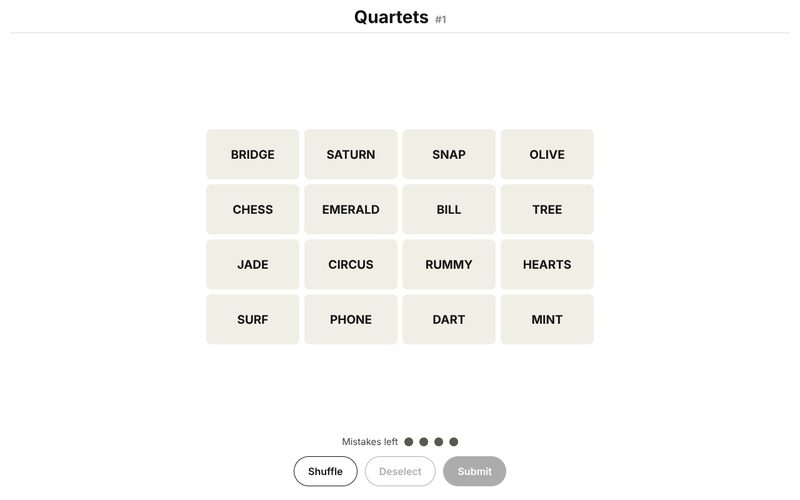
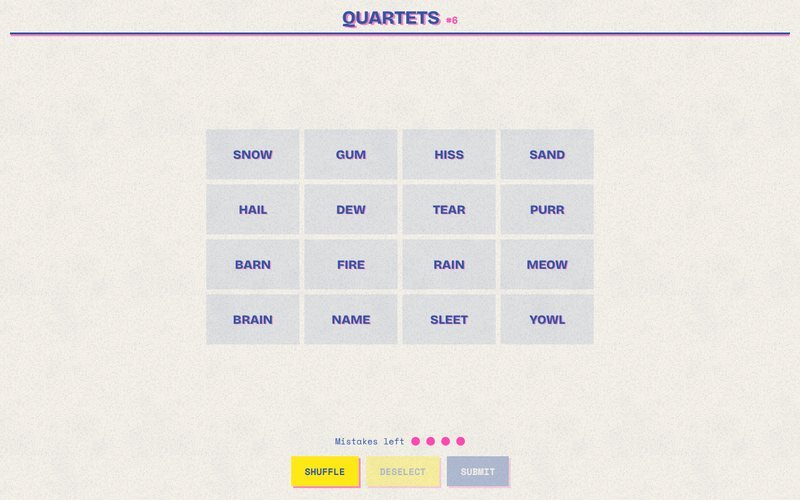
Ship Quartets (quartets) from claude-games 4314df8

diff --git a/public/proto/quartets.html b/public/proto/quartets.html
@@ -4818,7 +4818,7 @@ ${$(`flat`,`.cg-gs-btn:hover, .cg-gs-btn.focus`)} { background: var(--look-playe
 .cg-look-vector .cg-gs-panel, .cg-look-vector .cg-cc-card, .cg-look-vector .cg-hg-sheet { text-shadow: 0 0 6px currentColor; }
 .cg-look-block .cg-gs-panel, .cg-look-block .cg-cc-card, .cg-look-block .cg-hg-sheet { border-width: 4px !important; }
 .cg-look input { border-radius: 0; border: 2px solid var(--look-ink); background: var(--look-paper); color: var(--look-ink); font: inherit; }
-`;function Yf(e,t){let n=parseInt(e.slice(1),16);return`rgba(${n>>16&255}, ${n>>8&255}, ${n&255}, ${t})`}var Xf=class{sounds;volume=.7;muted=!1;ctx=null;master=null;noise=null;last=new Map;samples=new Map;requested=new Set;removers=[];constructor(e){if(this.sounds=e,typeof window<`u`){let e=()=>this.unlock();window.addEventListener(`keydown`,e),window.addEventListener(`pointerdown`,e),this.removers.push(()=>{window.removeEventListener(`keydown`,e),window.removeEventListener(`pointerdown`,e)})}}get ready(){return this.ctx!==null&&this.ctx.state===`running`}unlock(){try{if(!this.ctx){let e=window.AudioContext??window.webkitAudioContext;if(!e)return;this.ctx=new e,this.master=this.ctx.createGain(),this.master.connect(this.ctx.destination);let t=this.ctx.sampleRate;this.noise=this.ctx.createBuffer(1,t,this.ctx.sampleRate);let n=this.noise.getChannelData(0);for(let e=0;e<t;e++)n[e]=Math.random()*2-1}this.ctx.state===`suspended`&&this.ctx.resume(),this.loadSamples()}catch{this.ctx=null}}play(e,t={}){let n=this.sounds[e],r=this.ctx;if(!n||!r||!this.master||this.muted||r.state!==`running`)return;let i=r.currentTime,a=t.minGap??.03;if(i-(this.last.get(e)??-1)<a)return;this.last.set(e,i),this.master.gain.value=this.volume;let o=n.jitter?1+(Math.random()*2-1)*n.jitter:1,s=(t.pitch??1)*o,c=(n.volume??.3)*(t.volume??1);if(`file`in n){let e=Array.isArray(n.file)?n.file:[n.file],t=this.samples.get(e[Math.floor(Math.random()*e.length)]);if(!t)return;let a=r.createBufferSource(),o=r.createGain();a.buffer=t,a.playbackRate.value=s,o.gain.value=c,a.connect(o).connect(this.master),a.start(i);return}let l=n.notes??[0],u=n.step??n.duration;l.forEach((e,t)=>this.voice(n,i+t*u,s*2**(e/12),c))}destroy(){this.removers.forEach(e=>e()),this.ctx?.close()}async loadSamples(){let e=this.ctx;if(!e)return;let t=new Set;for(let e of Object.values(this.sounds))if(`file`in e)for(let n of Array.isArray(e.file)?e.file:[e.file])t.add(n);await Promise.all([...t].filter(e=>!this.requested.has(e)).map(async t=>{this.requested.add(t);try{let n=await(await fetch(t)).arrayBuffer();this.samples.set(t,await e.decodeAudioData(n))}catch(e){console.warn(`[Sfx] could not load`,t.slice(0,80),e)}}))}voice(e,t,n,r){let i=this.ctx,a=t+e.duration,o=i.createGain();o.gain.setValueAtTime(1e-4,t),o.gain.exponentialRampToValueAtTime(Math.max(2e-4,r),t+(e.attack??.005)),o.gain.exponentialRampToValueAtTime(1e-4,a);let s=o;if(e.filter){let t=i.createBiquadFilter();t.type=`lowpass`,t.frequency.value=e.filter*n,t.connect(o),s=t}if(o.connect(this.master),e.wave===`noise`){let e=i.createBufferSource();e.buffer=this.noise,e.playbackRate.value=n,e.connect(s),e.start(t,Math.random()*.5),e.stop(a+.02);return}let c=i.createOscillator();c.type=e.wave;let l=(e.freq??440)*n;if(c.frequency.setValueAtTime(l,t),e.freqEnd&&c.frequency.exponentialRampToValueAtTime(Math.max(20,e.freqEnd*n),a),e.vibrato){let n=i.createOscillator(),r=i.createGain();n.frequency.value=e.vibrato.rate,r.gain.value=e.vibrato.depth*l,n.connect(r).connect(c.frequency),n.start(t),n.stop(a+.02)}c.connect(s),c.start(t),c.stop(a+.02)}},Zf={achievement:{wave:`sine`,freq:784,notes:[0,7,12],step:.09,duration:.18,volume:.28},click:{wave:`triangle`,freq:660,freqEnd:760,duration:.05,volume:.18},focus:{wave:`triangle`,freq:520,duration:.03,volume:.1},error:{wave:`sine`,freq:220,freqEnd:180,duration:.1,volume:.15},win:{wave:`square`,freq:523,notes:[0,4,7,12,16,19,24],step:.075,duration:.16,volume:.2},lose:{wave:`triangle`,freq:392,notes:[0,-3,-7,-12],step:.14,duration:.2,volume:.22},reveal:{wave:`triangle`,freq:523,notes:[0,4,7,12],step:.07,duration:.14,volume:.22}};[0,8,2,10,12,4,14,6,3,11,1,9,15,7,13,5].map(e=>(e+.5)/16-.5);async function Qf(e,t,n=`400`){let r=new FontFace(e,`url(${t})`,{weight:n});return await r.load(),document.fonts.add(r),r}async function $f(e){await Promise.all(e.map(([e,t,n])=>Qf(e,t,n).catch(()=>null)))}var ep={glow:0,pixel:0,palette:null,bloom:0},tp={...ep,id:`sketchbook`,name:`Sketchbook`,render:`print`,paper:`#fbf8f1`,grid:`rgba(70, 120, 200, 0.16)`,gridSize:16,ink:{line:`#2b2b2b`,player:`#2457c5`,enemy:`#d23b2e`,hazard:`#f2c84b`,accent:`#e8639a`,muted:`#9a968c`,solid:`#3a3a3a`,panel:`#f3eee2`,soft:`#5b574f`,field:`rgba(255, 255, 255, 0.4)`,cloud:`rgba(43, 43, 43, 0.25)`},stroke:1.6,shadow:{x:0,y:0,color:`transparent`},font:{title:`'Caveat Brush', 'Comic Sans MS', cursive`,body:`'Patrick Hand', 'Comic Sans MS', cursive`},texture:`paper`,frame:`sketch`,rough:1.6},np={...ep,id:`letterpress`,name:`Letterpress`,render:`print`,paper:`#f2e8d5`,grid:``,gridSize:20,ink:{line:`#1d1d1b`,player:`#c8322b`,enemy:`#1f4e79`,hazard:`#d9a21b`,accent:`#c8322b`,muted:`#a39a86`,solid:`#3b3a36`,panel:`#e8dcc3`,soft:`#5a5243`,field:`rgba(255, 255, 255, 0.3)`,cloud:`rgba(29, 29, 27, 0.3)`},stroke:2,shadow:{x:1,y:1,color:`rgba(29, 29, 27, 0.25)`},font:{title:`'Alfa Slab One', Rockwell, serif`,body:`'Bitter', Georgia, serif`},texture:`paper`,frame:`deboss`},rp={...ep,id:`field-guide`,name:`Field Guide`,render:`print`,paper:`#efe6cf`,grid:``,gridSize:20,ink:{line:`#3a2a1a`,player:`#8a5a1c`,enemy:`#7a2e1c`,hazard:`#d8a634`,accent:`#4d6b3a`,muted:`#a8977a`,solid:`#3a2a1a`,panel:`#e6dabd`,soft:`#5e4a33`,field:`rgba(255, 250, 235, 0.35)`,cloud:`rgba(58, 42, 26, 0.25)`},stroke:1.2,shadow:{x:0,y:0,color:`transparent`},font:{title:`'IM Fell English SC', Georgia, serif`,body:`'IM Fell English', Georgia, serif`},texture:`engrave`,vignette:.18,frame:`plate`},ip={...ep,id:`risograph`,name:`Risograph`,render:`print`,paper:`#f5f1e8`,grid:``,gridSize:20,ink:{line:`#3255a4`,player:`#ff48b0`,enemy:`#00a95c`,hazard:`#ffe800`,accent:`#ff6c2f`,muted:`#b9b3a8`,solid:`#3255a4`,panel:`#ece6d8`,soft:`#4a4a5a`,field:`rgba(255, 255, 255, 0.3)`,cloud:`rgba(50, 85, 164, 0.3)`},stroke:0,shadow:{x:3,y:2,color:`rgba(255, 72, 176, 0.75)`},font:{title:`'Bricolage Grotesque', 'Arial Black', sans-serif`,body:`'Space Mono', ui-monospace, monospace`},texture:`riso`,frame:`riso`},ap=[tp,np,rp,ip,{...ep,id:`parlour`,name:`Parlour`,render:`print`,paper:`#1f4d36`,grid:``,gridSize:20,ink:{line:`#f3e9d2`,player:`#c9a14a`,enemy:`#b3283c`,hazard:`#c9a14a`,accent:`#c9a14a`,muted:`#7f9c88`,solid:`#0f2a1d`,panel:`#183f2c`,soft:`#cfc3a6`,field:`rgba(0, 0, 0, 0.12)`,cloud:`rgba(243, 233, 210, 0.2)`},stroke:1.5,shadow:{x:0,y:3,color:`rgba(0, 0, 0, 0.35)`},font:{title:`'Playfair Display SC', Georgia, serif`,body:`'Libre Caslon Text', Georgia, serif`},texture:`felt`,vignette:.45,frame:`gilt`},{...ep,id:`country-club`,name:`Country Club`,render:`print`,paper:`#f4efe3`,grid:``,gridSize:20,ink:{line:`#173b2c`,player:`#1d3557`,enemy:`#b5352f`,hazard:`#e0b84f`,accent:`#3d7a4f`,muted:`#a7a08f`,solid:`#173b2c`,panel:`#e9e1cf`,soft:`#4a5a4f`,field:`rgba(61, 122, 79, 0.12)`,cloud:`rgba(23, 59, 44, 0.2)`},stroke:1.5,shadow:{x:0,y:2,color:`rgba(23, 59, 44, 0.18)`},font:{title:`'DM Serif Display', Georgia, serif`,body:`'DM Sans', 'Helvetica Neue', sans-serif`},texture:`paper`,frame:`ticket`},{...ep,id:`pocket-lcd`,name:`Pocket LCD`,render:`block`,paper:`#b7c49a`,grid:``,gridSize:8,ink:{line:`#2a3320`,player:`#2a3320`,enemy:`#2a3320`,hazard:`#4b5a3a`,accent:`#2a3320`,muted:`#8c9a72`,solid:`#2a3320`,panel:`#a9b78c`,soft:`#3e4a30`,field:`rgba(42, 51, 32, 0.06)`,cloud:`rgba(42, 51, 32, 0.25)`},stroke:0,shadow:{x:1,y:1,color:`rgba(42, 51, 32, 0.18)`},pixel:3,palette:[`#b7c49a`,`#8c9a72`,`#4b5a3a`,`#2a3320`],font:{title:`'Micro 5', 'VT323', monospace`,body:`'VT323', ui-monospace, monospace`},texture:`lcd`,frame:`bevel`},{...ep,id:`paper-cutout`,name:`Paper Cutout`,render:`print`,paper:`#ffe9d6`,grid:``,gridSize:20,ink:{line:`#3d2c4e`,player:`#ff7a59`,enemy:`#4ab3a8`,hazard:`#ffc145`,accent:`#7b5ea7`,muted:`#d8b9a0`,solid:`#3d2c4e`,panel:`#fff6ec`,soft:`#6b5876`,field:`rgba(255, 255, 255, 0.35)`,cloud:`rgba(61, 44, 78, 0.18)`},stroke:0,shadow:{x:0,y:4,color:`rgba(61, 44, 78, 0.2)`},font:{title:`'Lilita One', 'Arial Rounded MT Bold', sans-serif`,body:`'Nunito', 'Helvetica Neue', sans-serif`},texture:`paper`,frame:`cutout`},{...ep,id:`topo-survey`,name:`Topo Survey`,render:`print`,paper:`#e9e4d0`,grid:``,gridSize:40,ink:{line:`#3b4a3f`,player:`#e86a1f`,enemy:`#b8322a`,hazard:`#f2b632`,accent:`#2f6f8f`,muted:`#a8a48c`,solid:`#4f5b45`,panel:`#dfd8bd`,soft:`#55604e`,field:`rgba(255, 255, 255, 0.3)`,cloud:`rgba(59, 74, 63, 0.25)`},stroke:1.5,shadow:{x:1,y:1,color:`rgba(59, 74, 63, 0.35)`},font:{title:`'Saira Stencil One', Impact, sans-serif`,body:`'Barlow Condensed', 'Arial Narrow', sans-serif`},texture:`topo`,frame:`stamp`},{...ep,id:`tarot`,name:`Tarot`,render:`print`,paper:`#191630`,grid:``,gridSize:20,ink:{line:`#e9d8a6`,player:`#e9d8a6`,enemy:`#c2456b`,hazard:`#f0c05a`,accent:`#e9d8a6`,muted:`#6b6390`,solid:`#0e0c1f`,panel:`#221e3f`,soft:`#b8acd6`,field:`rgba(233, 216, 166, 0.05)`,cloud:`rgba(184, 172, 214, 0.2)`},stroke:1.2,shadow:{x:0,y:0,color:`transparent`},font:{title:`'Cinzel Decorative', Georgia, serif`,body:`'Cormorant Garamond', Georgia, serif`},texture:`stars`,vignette:.35,frame:`gilt`},{...ep,id:`wanted-poster`,name:`Wanted Poster`,render:`print`,paper:`#e8d3a8`,grid:``,gridSize:20,ink:{line:`#3b2414`,player:`#2f4f6f`,enemy:`#9c2b1b`,hazard:`#c98a2b`,accent:`#9c2b1b`,muted:`#b39b72`,solid:`#3b2414`,panel:`#dcc292`,soft:`#5e4126`,field:`rgba(255, 245, 220, 0.25)`,cloud:`rgba(59, 36, 20, 0.25)`},stroke:2,shadow:{x:0,y:0,color:`transparent`},font:{title:`'Rye', Georgia, serif`,body:`'Old Standard TT', Georgia, serif`},texture:`aged`,vignette:.4,frame:`poster`},{...ep,id:`noir`,name:`Noir`,render:`print`,paper:`#141414`,grid:``,gridSize:20,ink:{line:`#ecebe6`,player:`#ecebe6`,enemy:`#c8102e`,hazard:`#d4d0c8`,accent:`#c8102e`,muted:`#6e6e6e`,solid:`#000000`,panel:`#1e1e1e`,soft:`#b5b3ad`,field:`rgba(255, 255, 255, 0.03)`,cloud:`rgba(236, 235, 230, 0.15)`},stroke:1,shadow:{x:0,y:6,color:`rgba(0, 0, 0, 0.6)`},font:{title:`'Bodoni Moda', Didot, serif`,body:`'Barlow Condensed', 'Arial Narrow', sans-serif`},texture:`film`,vignette:.6,frame:`slit`},{...ep,id:`comic-page`,name:`Comic Page`,render:`print`,paper:`#fff7e0`,grid:``,gridSize:20,ink:{line:`#111111`,player:`#1f5fd6`,enemy:`#e5322d`,hazard:`#ffd400`,accent:`#e5322d`,muted:`#9a917a`,solid:`#111111`,panel:`#fffdf4`,soft:`#333333`,field:`rgba(255, 255, 255, 0.3)`,cloud:`rgba(17, 17, 17, 0.25)`},stroke:3,shadow:{x:3,y:3,color:`#111111`},font:{title:`'Bangers', Impact, sans-serif`,body:`'Comic Neue', 'Comic Sans MS', sans-serif`},texture:`halftone`,frame:`comic`},{...ep,id:`travel-poster`,name:`Travel Poster`,render:`print`,paper:`#f3e2c3`,grid:``,gridSize:20,ink:{line:`#22313f`,player:`#e4572e`,enemy:`#17a398`,hazard:`#f6ae2d`,accent:`#33658a`,muted:`#c6b08c`,solid:`#22313f`,panel:`#ead5b0`,soft:`#4b5b68`,field:`rgba(255, 255, 255, 0.2)`,cloud:`rgba(34, 49, 63, 0.2)`},stroke:0,shadow:{x:0,y:0,color:`transparent`},font:{title:`'Abril Fatface', Didot, serif`,body:`'Josefin Sans', 'Helvetica Neue', sans-serif`},texture:`grain`,frame:`flat`}];[...Wf,...ap];var op=e=>e.toLowerCase().replace(/[^a-z0-9]+/g,`-`).replace(/^-|-$/g,``),sp=e=>e.split(`,`)[0].trim().replace(/^['"]|['"]$/g,``);async function cp(e,t){let n=Array.isArray(e)?e:[e],r=new Map;for(let e of n)for(let t of[e.font.title,e.font.body])r.set(op(sp(t)),sp(t));let i=[];for(let[e,n]of Object.entries(t)){let t=e.split(`/`).pop()??``,a=/^(.*)-latin-(\d+)-normal\.woff2$/.exec(t);if(!a)continue;let o=r.get(a[1]);o&&i.push([o,n,a[2]])}await $f(i)}async function lp(e,t,n,r={}){await cp(t,n),Gf(e,t,{surface:r.surface??!0}),document.documentElement.style.background=t.paper,document.body.style.background=t.paper}var up={id:`quartets`,title:`Quartets`,blurb:`Sixteen words, four hidden groups. Find them before four mistakes. A new board every day, every past one in the archive.`,tag:`Daily Word`,minutes:[2,4],accent:`#ba81c5`,icon:`🟪`,score:{label:`day streak`,max:1e5},achievements:[{id:`solve`,name:`Sorted`,description:`Solve a puzzle`},{id:`perfect`,name:`Flawless`,description:`Solve a puzzle with no mistakes`},{id:`week`,name:`Full Week`,description:`Reach a 7-day streak`},{id:`regular`,name:`Regular`,description:`Solve 30 puzzles`,goal:30},{id:`close`,name:`Close Call`,description:`Solve with one mistake to spare`},{id:`purple`,name:`Purple First`,description:`Find the hardest group first`,secret:!0}]},dp=class{groups;o;items;solved=[];mistakes=0;history=[];tried=new Set;constructor(e,t={mistakes:4}){this.groups=e,this.o=t,this.items=e.flatMap(e=>e.items)}get size(){return this.groups[0]?.items.length??4}get won(){return this.solved.length===this.groups.length}get lost(){return this.mistakes>=this.o.mistakes}get over(){return this.won||this.lost}groupOf(e){return this.groups.find(t=>t.items.includes(e))}shuffle(e){for(let t=this.items.length-1;t>0;t--){let n=Math.floor(e.next()*(t+1));[this.items[t],this.items[n]]=[this.items[n],this.items[t]]}}guess(e){if(this.over||e.length!==this.size||new Set(e).size!==e.length||!e.every(e=>this.items.includes(e)))return{result:`invalid`};let t=[...e].sort().join(`|`);if(this.tried.has(t))return{result:`repeat`};this.tried.add(t),this.history.push([...e]);let n=this.groupOf(e[0]);if(e.every(e=>n.items.includes(e)))return this.solved.push(n),this.items=this.items.filter(e=>!n.items.includes(e)),{result:`correct`,group:n};this.mistakes++;let r=new Map;for(let t of e)r.set(this.groupOf(t),(r.get(this.groupOf(t))??0)+1);return Math.max(...r.values())===this.size-1?{result:`oneAway`}:{result:`wrong`}}reveal(){let e=this.groups.filter(e=>!this.solved.includes(e)).sort((e,t)=>e.level-t.level);return this.solved.push(...e),this.items=[],e}},fp=`2026-10-23`,pp={mistakes:4},mp=[{color:`#ffe800`,ink:`#3255a4`,square:`🟨`},{color:`#00a95c`,ink:`#f5f1e8`,square:`🟩`},{color:`#0078bf`,ink:`#f5f1e8`,square:`🟦`},{color:`#765ba7`,ink:`#f5f1e8`,square:`🟪`}],hp=class e extends dp{static groups(e){return e.map((e,t)=>{let n=e.lastIndexOf(`:`);return{name:e.slice(0,n).trim(),items:e.slice(n+1).split(`,`).map(e=>e.trim()),level:t}})}static parse(t){return new e(e.groups(t),{mistakes:pp.mistakes})}share(e){return`Quartets #${e}\n${this.history.map(e=>e.map(e=>mp[this.groupOf(e).level].square).join(``)).join(`
+`;function Yf(e,t){let n=parseInt(e.slice(1),16);return`rgba(${n>>16&255}, ${n>>8&255}, ${n&255}, ${t})`}var Xf=class{sounds;volume=.7;muted=!1;ctx=null;master=null;noise=null;last=new Map;samples=new Map;requested=new Set;removers=[];constructor(e){if(this.sounds=e,typeof window<`u`){let e=()=>this.unlock();window.addEventListener(`keydown`,e),window.addEventListener(`pointerdown`,e),this.removers.push(()=>{window.removeEventListener(`keydown`,e),window.removeEventListener(`pointerdown`,e)})}}get ready(){return this.ctx!==null&&this.ctx.state===`running`}unlock(){try{if(!this.ctx){let e=window.AudioContext??window.webkitAudioContext;if(!e)return;this.ctx=new e,this.master=this.ctx.createGain(),this.master.connect(this.ctx.destination);let t=this.ctx.sampleRate;this.noise=this.ctx.createBuffer(1,t,this.ctx.sampleRate);let n=this.noise.getChannelData(0);for(let e=0;e<t;e++)n[e]=Math.random()*2-1}this.ctx.state===`suspended`&&this.ctx.resume(),this.loadSamples()}catch{this.ctx=null}}play(e,t={}){let n=this.sounds[e],r=this.ctx;if(!n||!r||!this.master||this.muted||r.state!==`running`)return;let i=r.currentTime,a=t.minGap??.03;if(i-(this.last.get(e)??-1)<a)return;this.last.set(e,i),this.master.gain.value=this.volume;let o=n.jitter?1+(Math.random()*2-1)*n.jitter:1,s=(t.pitch??1)*o,c=(n.volume??.3)*(t.volume??1);if(`file`in n){let e=Array.isArray(n.file)?n.file:[n.file],t=this.samples.get(e[Math.floor(Math.random()*e.length)]);if(!t)return;let a=r.createBufferSource(),o=r.createGain();a.buffer=t,a.playbackRate.value=s,o.gain.value=c,a.connect(o).connect(this.master),a.start(i);return}let l=n.notes??[0],u=n.step??n.duration;l.forEach((e,t)=>this.voice(n,i+t*u,s*2**(e/12),c))}destroy(){this.removers.forEach(e=>e()),this.ctx?.close()}async loadSamples(){let e=this.ctx;if(!e)return;let t=new Set;for(let e of Object.values(this.sounds))if(`file`in e)for(let n of Array.isArray(e.file)?e.file:[e.file])t.add(n);await Promise.all([...t].filter(e=>!this.requested.has(e)).map(async t=>{this.requested.add(t);try{let n=await(await fetch(t)).arrayBuffer();this.samples.set(t,await e.decodeAudioData(n))}catch(e){console.warn(`[Sfx] could not load`,t.slice(0,80),e)}}))}voice(e,t,n,r){let i=this.ctx,a=t+e.duration,o=i.createGain();o.gain.setValueAtTime(1e-4,t),o.gain.exponentialRampToValueAtTime(Math.max(2e-4,r),t+(e.attack??.005)),o.gain.exponentialRampToValueAtTime(1e-4,a);let s=o;if(e.filter){let t=i.createBiquadFilter();t.type=`lowpass`,t.frequency.value=e.filter*n,t.connect(o),s=t}if(o.connect(this.master),e.wave===`noise`){let e=i.createBufferSource();e.buffer=this.noise,e.playbackRate.value=n,e.connect(s),e.start(t,Math.random()*.5),e.stop(a+.02);return}let c=i.createOscillator();c.type=e.wave;let l=(e.freq??440)*n;if(c.frequency.setValueAtTime(l,t),e.freqEnd&&c.frequency.exponentialRampToValueAtTime(Math.max(20,e.freqEnd*n),a),e.vibrato){let n=i.createOscillator(),r=i.createGain();n.frequency.value=e.vibrato.rate,r.gain.value=e.vibrato.depth*l,n.connect(r).connect(c.frequency),n.start(t),n.stop(a+.02)}c.connect(s),c.start(t),c.stop(a+.02)}},Zf={achievement:{wave:`sine`,freq:784,notes:[0,7,12],step:.09,duration:.18,volume:.28},click:{wave:`triangle`,freq:660,freqEnd:760,duration:.05,volume:.18},focus:{wave:`triangle`,freq:520,duration:.03,volume:.1},error:{wave:`sine`,freq:220,freqEnd:180,duration:.1,volume:.15},win:{wave:`square`,freq:523,notes:[0,4,7,12,16,19,24],step:.075,duration:.16,volume:.2},lose:{wave:`triangle`,freq:392,notes:[0,-3,-7,-12],step:.14,duration:.2,volume:.22},reveal:{wave:`triangle`,freq:523,notes:[0,4,7,12],step:.07,duration:.14,volume:.22}};[0,8,2,10,12,4,14,6,3,11,1,9,15,7,13,5].map(e=>(e+.5)/16-.5);async function Qf(e,t,n=`400`){let r=new FontFace(e,`url(${t})`,{weight:n});return await r.load(),document.fonts.add(r),r}async function $f(e){await Promise.all(e.map(([e,t,n])=>Qf(e,t,n).catch(()=>null)))}var ep={glow:0,pixel:0,palette:null,bloom:0},tp={...ep,id:`sketchbook`,name:`Sketchbook`,render:`print`,paper:`#fbf8f1`,grid:`rgba(70, 120, 200, 0.16)`,gridSize:16,ink:{line:`#2b2b2b`,player:`#2457c5`,enemy:`#d23b2e`,hazard:`#f2c84b`,accent:`#e8639a`,muted:`#9a968c`,solid:`#3a3a3a`,panel:`#f3eee2`,soft:`#5b574f`,field:`rgba(255, 255, 255, 0.4)`,cloud:`rgba(43, 43, 43, 0.25)`},stroke:1.6,shadow:{x:0,y:0,color:`transparent`},font:{title:`'Caveat Brush', 'Comic Sans MS', cursive`,body:`'Patrick Hand', 'Comic Sans MS', cursive`},texture:`paper`,frame:`sketch`,rough:1.6},np={...ep,id:`letterpress`,name:`Letterpress`,render:`print`,paper:`#f2e8d5`,grid:``,gridSize:20,ink:{line:`#1d1d1b`,player:`#c8322b`,enemy:`#1f4e79`,hazard:`#d9a21b`,accent:`#c8322b`,muted:`#a39a86`,solid:`#3b3a36`,panel:`#e8dcc3`,soft:`#5a5243`,field:`rgba(255, 255, 255, 0.3)`,cloud:`rgba(29, 29, 27, 0.3)`},stroke:2,shadow:{x:1,y:1,color:`rgba(29, 29, 27, 0.25)`},font:{title:`'Alfa Slab One', Rockwell, serif`,body:`'Bitter', Georgia, serif`},texture:`paper`,frame:`deboss`},rp={...ep,id:`field-guide`,name:`Field Guide`,render:`print`,paper:`#efe6cf`,grid:``,gridSize:20,ink:{line:`#3a2a1a`,player:`#8a5a1c`,enemy:`#7a2e1c`,hazard:`#d8a634`,accent:`#4d6b3a`,muted:`#a8977a`,solid:`#3a2a1a`,panel:`#e6dabd`,soft:`#5e4a33`,field:`rgba(255, 250, 235, 0.35)`,cloud:`rgba(58, 42, 26, 0.25)`},stroke:1.2,shadow:{x:0,y:0,color:`transparent`},font:{title:`'IM Fell English SC', Georgia, serif`,body:`'IM Fell English', Georgia, serif`},texture:`engrave`,vignette:.18,frame:`plate`},ip={...ep,id:`risograph`,name:`Risograph`,render:`print`,paper:`#f5f1e8`,grid:``,gridSize:20,ink:{line:`#3255a4`,player:`#ff48b0`,enemy:`#00a95c`,hazard:`#ffe800`,accent:`#ff6c2f`,muted:`#b9b3a8`,solid:`#3255a4`,panel:`#ece6d8`,soft:`#4a4a5a`,field:`rgba(255, 255, 255, 0.3)`,cloud:`rgba(50, 85, 164, 0.3)`},stroke:0,shadow:{x:3,y:2,color:`rgba(255, 72, 176, 0.75)`},font:{title:`'Bricolage Grotesque', 'Arial Black', sans-serif`,body:`'Space Mono', ui-monospace, monospace`},texture:`riso`,frame:`riso`},ap=[tp,np,rp,ip,{...ep,id:`parlour`,name:`Parlour`,render:`print`,paper:`#1f4d36`,grid:``,gridSize:20,ink:{line:`#f3e9d2`,player:`#c9a14a`,enemy:`#b3283c`,hazard:`#c9a14a`,accent:`#c9a14a`,muted:`#7f9c88`,solid:`#0f2a1d`,panel:`#183f2c`,soft:`#cfc3a6`,field:`rgba(0, 0, 0, 0.12)`,cloud:`rgba(243, 233, 210, 0.2)`},stroke:1.5,shadow:{x:0,y:3,color:`rgba(0, 0, 0, 0.35)`},font:{title:`'Playfair Display SC', Georgia, serif`,body:`'Libre Caslon Text', Georgia, serif`},texture:`felt`,vignette:.45,frame:`gilt`},{...ep,id:`country-club`,name:`Country Club`,render:`print`,paper:`#f4efe3`,grid:``,gridSize:20,ink:{line:`#173b2c`,player:`#1d3557`,enemy:`#b5352f`,hazard:`#e0b84f`,accent:`#3d7a4f`,muted:`#a7a08f`,solid:`#173b2c`,panel:`#e9e1cf`,soft:`#4a5a4f`,field:`rgba(61, 122, 79, 0.12)`,cloud:`rgba(23, 59, 44, 0.2)`},stroke:1.5,shadow:{x:0,y:2,color:`rgba(23, 59, 44, 0.18)`},font:{title:`'DM Serif Display', Georgia, serif`,body:`'DM Sans', 'Helvetica Neue', sans-serif`},texture:`paper`,frame:`ticket`},{...ep,id:`pocket-lcd`,name:`Pocket LCD`,render:`block`,paper:`#b7c49a`,grid:``,gridSize:8,ink:{line:`#2a3320`,player:`#2a3320`,enemy:`#2a3320`,hazard:`#4b5a3a`,accent:`#2a3320`,muted:`#8c9a72`,solid:`#2a3320`,panel:`#a9b78c`,soft:`#3e4a30`,field:`rgba(42, 51, 32, 0.06)`,cloud:`rgba(42, 51, 32, 0.25)`},stroke:0,shadow:{x:1,y:1,color:`rgba(42, 51, 32, 0.18)`},pixel:3,palette:[`#b7c49a`,`#8c9a72`,`#4b5a3a`,`#2a3320`],font:{title:`'Micro 5', 'VT323', monospace`,body:`'VT323', ui-monospace, monospace`},texture:`lcd`,frame:`bevel`},{...ep,id:`paper-cutout`,name:`Paper Cutout`,render:`print`,paper:`#ffe9d6`,grid:``,gridSize:20,ink:{line:`#3d2c4e`,player:`#ff7a59`,enemy:`#4ab3a8`,hazard:`#ffc145`,accent:`#7b5ea7`,muted:`#d8b9a0`,solid:`#3d2c4e`,panel:`#fff6ec`,soft:`#6b5876`,field:`rgba(255, 255, 255, 0.35)`,cloud:`rgba(61, 44, 78, 0.18)`},stroke:0,shadow:{x:0,y:4,color:`rgba(61, 44, 78, 0.2)`},font:{title:`'Lilita One', 'Arial Rounded MT Bold', sans-serif`,body:`'Nunito', 'Helvetica Neue', sans-serif`},texture:`paper`,frame:`cutout`},{...ep,id:`topo-survey`,name:`Topo Survey`,render:`print`,paper:`#e9e4d0`,grid:``,gridSize:40,ink:{line:`#3b4a3f`,player:`#e86a1f`,enemy:`#b8322a`,hazard:`#f2b632`,accent:`#2f6f8f`,muted:`#a8a48c`,solid:`#4f5b45`,panel:`#dfd8bd`,soft:`#55604e`,field:`rgba(255, 255, 255, 0.3)`,cloud:`rgba(59, 74, 63, 0.25)`},stroke:1.5,shadow:{x:1,y:1,color:`rgba(59, 74, 63, 0.35)`},font:{title:`'Saira Stencil One', Impact, sans-serif`,body:`'Barlow Condensed', 'Arial Narrow', sans-serif`},texture:`topo`,frame:`stamp`},{...ep,id:`tarot`,name:`Tarot`,render:`print`,paper:`#191630`,grid:``,gridSize:20,ink:{line:`#e9d8a6`,player:`#e9d8a6`,enemy:`#c2456b`,hazard:`#f0c05a`,accent:`#e9d8a6`,muted:`#6b6390`,solid:`#0e0c1f`,panel:`#221e3f`,soft:`#b8acd6`,field:`rgba(233, 216, 166, 0.05)`,cloud:`rgba(184, 172, 214, 0.2)`},stroke:1.2,shadow:{x:0,y:0,color:`transparent`},font:{title:`'Cinzel Decorative', Georgia, serif`,body:`'Cormorant Garamond', Georgia, serif`},texture:`stars`,vignette:.35,frame:`gilt`},{...ep,id:`wanted-poster`,name:`Wanted Poster`,render:`print`,paper:`#e8d3a8`,grid:``,gridSize:20,ink:{line:`#3b2414`,player:`#2f4f6f`,enemy:`#9c2b1b`,hazard:`#c98a2b`,accent:`#9c2b1b`,muted:`#b39b72`,solid:`#3b2414`,panel:`#dcc292`,soft:`#5e4126`,field:`rgba(255, 245, 220, 0.25)`,cloud:`rgba(59, 36, 20, 0.25)`},stroke:2,shadow:{x:0,y:0,color:`transparent`},font:{title:`'Rye', Georgia, serif`,body:`'Old Standard TT', Georgia, serif`},texture:`aged`,vignette:.4,frame:`poster`},{...ep,id:`noir`,name:`Noir`,render:`print`,paper:`#141414`,grid:``,gridSize:20,ink:{line:`#ecebe6`,player:`#ecebe6`,enemy:`#c8102e`,hazard:`#d4d0c8`,accent:`#c8102e`,muted:`#6e6e6e`,solid:`#000000`,panel:`#1e1e1e`,soft:`#b5b3ad`,field:`rgba(255, 255, 255, 0.03)`,cloud:`rgba(236, 235, 230, 0.15)`},stroke:1,shadow:{x:0,y:6,color:`rgba(0, 0, 0, 0.6)`},font:{title:`'Bodoni Moda', Didot, serif`,body:`'Barlow Condensed', 'Arial Narrow', sans-serif`},texture:`film`,vignette:.6,frame:`slit`},{...ep,id:`comic-page`,name:`Comic Page`,render:`print`,paper:`#fff7e0`,grid:``,gridSize:20,ink:{line:`#111111`,player:`#1f5fd6`,enemy:`#e5322d`,hazard:`#ffd400`,accent:`#e5322d`,muted:`#9a917a`,solid:`#111111`,panel:`#fffdf4`,soft:`#333333`,field:`rgba(255, 255, 255, 0.3)`,cloud:`rgba(17, 17, 17, 0.25)`},stroke:3,shadow:{x:3,y:3,color:`#111111`},font:{title:`'Bangers', Impact, sans-serif`,body:`'Comic Neue', 'Comic Sans MS', sans-serif`},texture:`halftone`,frame:`comic`},{...ep,id:`travel-poster`,name:`Travel Poster`,render:`print`,paper:`#f3e2c3`,grid:``,gridSize:20,ink:{line:`#22313f`,player:`#e4572e`,enemy:`#17a398`,hazard:`#f6ae2d`,accent:`#33658a`,muted:`#c6b08c`,solid:`#22313f`,panel:`#ead5b0`,soft:`#4b5b68`,field:`rgba(255, 255, 255, 0.2)`,cloud:`rgba(34, 49, 63, 0.2)`},stroke:0,shadow:{x:0,y:0,color:`transparent`},font:{title:`'Abril Fatface', Didot, serif`,body:`'Josefin Sans', 'Helvetica Neue', sans-serif`},texture:`grain`,frame:`flat`}];[...Wf,...ap];var op=e=>e.toLowerCase().replace(/[^a-z0-9]+/g,`-`).replace(/^-|-$/g,``),sp=e=>e.split(`,`)[0].trim().replace(/^['"]|['"]$/g,``);async function cp(e,t){let n=Array.isArray(e)?e:[e],r=new Map;for(let e of n)for(let t of[e.font.title,e.font.body])r.set(op(sp(t)),sp(t));let i=[];for(let[e,n]of Object.entries(t)){let t=e.split(`/`).pop()??``,a=/^(.*)-latin-(\d+)-normal\.woff2$/.exec(t);if(!a)continue;let o=r.get(a[1]);o&&i.push([o,n,a[2]])}await $f(i)}async function lp(e,t,n,r={}){await cp(t,n),Gf(e,t,{surface:r.surface??!0}),document.documentElement.style.background=t.paper,document.body.style.background=t.paper}var up={id:`quartets`,title:`Quartets`,blurb:`Sixteen words, four hidden groups. Find them before four mistakes. A new board every day, every past one in the archive.`,tag:`Daily Word`,minutes:[2,4],accent:`#ff48b0`,icon:`🟪`,score:{label:`day streak`,max:1e5},achievements:[{id:`solve`,name:`Sorted`,description:`Solve a puzzle`},{id:`perfect`,name:`Flawless`,description:`Solve a puzzle with no mistakes`},{id:`week`,name:`Full Week`,description:`Reach a 7-day streak`},{id:`regular`,name:`Regular`,description:`Solve 30 puzzles`,goal:30},{id:`close`,name:`Close Call`,description:`Solve with one mistake to spare`},{id:`purple`,name:`Purple First`,description:`Find the hardest group first`,secret:!0}]},dp=class{groups;o;items;solved=[];mistakes=0;history=[];tried=new Set;constructor(e,t={mistakes:4}){this.groups=e,this.o=t,this.items=e.flatMap(e=>e.items)}get size(){return this.groups[0]?.items.length??4}get won(){return this.solved.length===this.groups.length}get lost(){return this.mistakes>=this.o.mistakes}get over(){return this.won||this.lost}groupOf(e){return this.groups.find(t=>t.items.includes(e))}shuffle(e){for(let t=this.items.length-1;t>0;t--){let n=Math.floor(e.next()*(t+1));[this.items[t],this.items[n]]=[this.items[n],this.items[t]]}}guess(e){if(this.over||e.length!==this.size||new Set(e).size!==e.length||!e.every(e=>this.items.includes(e)))return{result:`invalid`};let t=[...e].sort().join(`|`);if(this.tried.has(t))return{result:`repeat`};this.tried.add(t),this.history.push([...e]);let n=this.groupOf(e[0]);if(e.every(e=>n.items.includes(e)))return this.solved.push(n),this.items=this.items.filter(e=>!n.items.includes(e)),{result:`correct`,group:n};this.mistakes++;let r=new Map;for(let t of e)r.set(this.groupOf(t),(r.get(this.groupOf(t))??0)+1);return Math.max(...r.values())===this.size-1?{result:`oneAway`}:{result:`wrong`}}reveal(){let e=this.groups.filter(e=>!this.solved.includes(e)).sort((e,t)=>e.level-t.level);return this.solved.push(...e),this.items=[],e}},fp=`2026-10-23`,pp={mistakes:4},mp=[{color:`#ffe800`,ink:`#3255a4`,square:`🟨`},{color:`#00a95c`,ink:`#f5f1e8`,square:`🟩`},{color:`#0078bf`,ink:`#f5f1e8`,square:`🟦`},{color:`#765ba7`,ink:`#f5f1e8`,square:`🟪`}],hp=class e extends dp{static groups(e){return e.map((e,t)=>{let n=e.lastIndexOf(`:`);return{name:e.slice(0,n).trim(),items:e.slice(n+1).split(`,`).map(e=>e.trim()),level:t}})}static parse(t){return new e(e.groups(t),{mistakes:pp.mistakes})}share(e){return`Quartets #${e}\n${this.history.map(e=>e.map(e=>mp[this.groupOf(e).level].square).join(``)).join(`
 `)}`}},gp=[[`Shades of green: OLIVE, MINT, JADE, EMERALD`,`Card games: RUMMY, SNAP, HEARTS, BRIDGE`,`___ board: SURF, CHESS, BILL, DART`,`Things with rings: SATURN, TREE, CIRCUS, PHONE`],[`Breakfast foods: TOAST, CEREAL, BACON, WAFFLE`,`Spans of time: SECOND, MINUTE, MOMENT, AGE`,`Breads: RYE, NAAN, BAGEL, PITA`,`___fly: BUTTER, DRAGON, FIRE, HOUSE`],[`Planets: MARS, VENUS, EARTH, NEPTUNE`,`Roman gods: JUNO, CUPID, JANUS, VESTA`,`Chocolate bars: GALAXY, BOUNTY, TWIX, AERO`,`___ship: WAR, STAR, FRIEND, HARD`],[`Kitchen utensils: WHISK, LADLE, SPATULA, TONGS`,`Dances: TANGO, SALSA, WALTZ, SAMBA`,`Sauces: PESTO, GRAVY, AIOLI, HOISIN`,`NATO alphabet: ALPHA, BRAVO, HOTEL, ECHO`],[`Fruits: MANGO, PEACH, PLUM, GRAPE`,`Shades of purple: LILAC, VIOLET, MAUVE, LAVENDER`,`___fruit: STAR, PASSION, DRAGON, JACK`,`Little Women sisters: MEG, JO, BETH, AMY`],[`Precipitation: RAIN, SNOW, HAIL, SLEET`,`___drop: DEW, TEAR, GUM, NAME`,`Cat sounds: PURR, HISS, MEOW, YOWL`,`___storm: BRAIN, FIRE, SAND, BARN`],[`Bodies of water: LAKE, POND, OCEAN, BROOK`,`Programming languages: PYTHON, RUBY, JAVA, SWIFT`,`Snakes: COBRA, MAMBA, ADDER, VIPER`,`Birds that are also verbs: SWALLOW, DUCK, CROW, ROOK`],[`Orchestra instruments: FLUTE, CELLO, TUBA, HARP`,`Freshwater fish: BASS, PIKE, TROUT, PERCH`,`Parts of a shoe: SOLE, HEEL, TONGUE, LACE`,`Complain: CARP, MOAN, GRIPE, WHINE`],[`Rainbow colours: RED, ORANGE, YELLOW, INDIGO`,`Citrus fruits: LEMON, LIME, GRAPEFRUIT, YUZU`,`Parts of the eye: IRIS, PUPIL, LENS, RETINA`,`___ belt: SEAT, CONVEYOR, ASTEROID, BIBLE`],[`Dog breeds: POODLE, BEAGLE, BOXER, PUG`,`Punches: JAB, HOOK, UPPERCUT, CROSS`,`Peter Pan characters: WENDY, TINKERBELL, SMEE, NANA`,`Chinese zodiac: RAT, OX, TIGER, DRAGON`],[`Metals: IRON, COPPER, SILVER, ZINC`,`Chores: DUST, MOP, SWEEP, VACUUM`,`Pieces of writing: WORD, LINE, PAGE, CHAPTER`,`US coins: PENNY, NICKEL, DIME, QUARTER`],[`Breakfast drinks: COFFEE, JUICE, MILK, COCOA`,`Shades of brown: TAN, BEIGE, TAUPE, KHAKI`,`___pot: TEA, JACK, CRACK, HOT`,`In a deck of cards: KING, QUEEN, ACE, JOKER`],[`Shapes: CIRCLE, SQUARE, TRIANGLE, OVAL`,`Town ___: HALL, CRIER, HOUSE, SHIP`,`Chess pieces: KNIGHT, BISHOP, ROOK, PAWN`,`Board games: RISK, CLUE, SORRY, LIFE`],[`Insects: ANT, WASP, MOTH, GNAT`,`___keeper: BEE, GOAL, SHOP, BOOK`,`Sound like letters: SEA, TEA, EYE, PEA`,`Units of length: FOOT, YARD, MILE, INCH`],[`Desserts: CAKE, PIE, TART, MOUSSE`,`Greek letters: ALPHA, BETA, DELTA, SIGMA`,`Parts of a river: MOUTH, BANK, BED, SOURCE`,`Cheeses: BRIE, FETA, EDAM, GOUDA`],[`Vehicles: CAR, BUS, TRUCK, VAN`,`At a wedding: TRAIN, VEIL, RING, BOUQUET`,`___stop: FULL, PIT, DOOR, BACK`,`Car parts: HOOD, TRUNK, BOOT, BONNET`],[`Birds: OWL, SPARROW, HERON, FINCH`,`Batman characters: ROBIN, JOKER, PENGUIN, RIDDLER`,`Golf scores: BIRDIE, PAR, BOGEY, EAGLE`,`___cake: CUP, PAN, CHEESE, FISH`],[`Hand tools: HAMMER, WRENCH, CHISEL, PLIERS`,`Military routines: DRILL, MARCH, SALUTE, PARADE`,`Seen: SAW, SPOTTED, NOTICED, EYED`,`___time: OVER, HALF, BED, PRIME`],[`Sports: TENNIS, GOLF, RUGBY, CRICKET`,`Insects: BEETLE, FLEA, LOUSE, MANTIS`,`___ court: FOOD, SUPREME, HIGH, KANGAROO`,`Shirts: POLO, TANK, HENLEY, OXFORD`],[`Sea creatures: WHALE, DOLPHIN, SQUID, SEAL`,`Loan ___: SHARK, OFFICER, WORD, AGREEMENT`,`___fish: STAR, CAT, SWORD, JELLY`,`Things with eight: OCTOPUS, SPIDER, OCTAGON, BYTE`],[`Pasta: PENNE, FUSILLI, LINGUINE, RIGATONI`,`Sea___: SHELL, HORSE, WEED, GULL`,`Ways to cook eggs: SCRAMBLED, FRIED, BOILED, DEVILED`,`Stolen: POACHED, PINCHED, LIFTED, NICKED`],[`Coffee drinks: LATTE, MOCHA, ESPRESSO, CAPPUCCINO`,`Islands of Indonesia: JAVA, BALI, SUMATRA, BORNEO`,`Dog commands: SIT, STAY, HEEL, FETCH`,`Hidden CAT: DEDICATE, LOCATE, VACATION, EDUCATE`],[`Footwear: SANDAL, SLIPPER, CLOG, BROGUE`,`Lazy person: LOAFER, SLACKER, IDLER, LAYABOUT`,`___ camp: BOOT, DAY, BASE, SUMMER`,`Hybrid animals: MULE, LIGER, ZONKEY, HINNY`],[`Trees: OAK, MAPLE, BIRCH, ELM`,`Miss someone: PINE, YEARN, LONG, ACHE`,`___nut: PEA, DOUGH, HAZEL, COCO`,`Nonsense: BUNK, ROT, TOSH, BALONEY`],[`Music genres: JAZZ, BLUES, FOLK, PUNK`,`___star: ROCK, FILM, SHOOTING, LODE`,`Inner self: SPIRIT, SOUL, PSYCHE, ESSENCE`,`Shades of blue: NAVY, TEAL, COBALT, AZURE`],[`Kitchen appliances: OVEN, TOASTER, BLENDER, FRIDGE`,`Goodbye: CIAO, ADIEU, CHEERIO, FAREWELL`,`___bread: CORN, SHORT, GINGER, BANANA`,`Mix in a bowl: STIR, WHISK, FOLD, BEAT`],[`Currencies: DOLLAR, EURO, PESO, RUPEE`,`Hit hard: POUND, HAMMER, THUMP, WALLOP`,`Baseball players: PITCHER, CATCHER, SHORTSTOP, BATTER`,`Desire: YEN, ITCH, URGE, CRAVING`],[`Clothing: SHIRT, JACKET, SCARF, SOCK`,`Avoid: SKIRT, DUCK, EVADE, SHIRK`,`Car makers: HONDA, FIAT, DODGE, MAZDA`,`Ways across a river: BRIDGE, FERRY, TUNNEL, FORD`],[`Office supplies: STAPLER, ERASER, RULER, FOLDER`,`Paper ___: CLIP, WEIGHT, ROUTE, TIGER`,`Animal pens: PEN, CORRAL, PADDOCK, COOP`,`___worm: BOOK, EARTH, TAPE, SILK`],[`Gemstones: RUBY, EMERALD, SAPPHIRE, OPAL`,`Card suits: SPADE, HEART, CLUB, DIAMOND`,`Golf gear: TEE, IRON, WOOD, PUTTER`,`Garden tools: RAKE, HOE, TROWEL, SHEARS`]],_p=Object.assign({"../../assets/looks/fonts/bricolage-grotesque/bricolage-grotesque-latin-400-normal.woff2":e,"../../assets/looks/fonts/bricolage-grotesque/bricolage-grotesque-latin-800-normal.woff2":t,"../../assets/looks/fonts/space-mono/space-mono-latin-400-normal.woff2":n,"../../assets/looks/fonts/space-mono/space-mono-latin-700-normal.woff2":r}),vp=new qd({id:`quartets`,view:`2d`,settings:{showDevTools:!1}}),yp=new af(up,vp.storage),bp=new Xf({...Zf,pick:{wave:`triangle`,freq:600,duration:.04,volume:.15}}),xp=new nf(fp),Sp=new rf(vp.storage,`quartets`),Cp=new Lf(vp,{title:`Quartets`,daily:xp,log:Sp,site:yp,onAchievement:()=>bp.play(`achievement`),exists:e=>e<=gp.length}),wp=e=>new Promise(t=>setTimeout(t,e*1e3)),Tp=class extends Qd{q;n=1;busy=!1;board;solved;dots;tiles;submitBtn;clearBtn;onEnter({n:e}){this.n=e,this.busy=!1,this.q=hp.parse(gp[e-1]),this.q.shuffle(vp.rng.fork(`q-${e}-${Date.now()}`));for(let t of Sp.loadProgress(e)??[])this.q.guess(t);this.tiles=new Ef({key:e=>e,render:e=>sf(`button`,{class:`qt-tile${e.length>8?` long`:``}`,text:e}),max:4,keys:!1,onChange:()=>(bp.play(`pick`),this.renderButtons())}),this.track(()=>this.tiles.destroy()),this.tiles.el.classList.add(`qt-grid`),this.solved=sf(`div`,{class:`qt-solved`}),this.dots=sf(`div`,{class:`qt-dots`}),this.submitBtn=sf(`button`,{class:`qt-btn dark`,text:`Submit`,onClick:()=>void this.submit()}),this.clearBtn=sf(`button`,{class:`qt-btn`,text:`Deselect`,onClick:()=>(this.tiles.clear(),this.renderButtons())}),this.board=sf(`div`,{class:`qt-board`},this.solved,this.tiles.el),this.addDom(sf(`div`,{class:`qt`},sf(`div`,{class:`qt-head`},sf(`b`,{text:`Quartets`}),sf(`span`,{text:`#${e}`})),this.board,this.dots,sf(`div`,{class:`qt-buttons`},sf(`button`,{class:`qt-btn`,text:`Shuffle`,onClick:()=>this.shuffle()}),this.clearBtn,this.submitBtn))),Cp.pauseMenu(this,e),this.listen(window,`keydown`,e=>{e.code===`Enter`&&(e.preventDefault(),this.submit())}),this.render(),this.q.over&&this.end()}shuffle(){this.busy||(this.q.shuffle(vp.rng),hf(this.board,()=>this.render(),{seconds:.25}))}async submit(){if(this.busy||this.tiles.count!==4)return;let e=this.tiles.selected,t=this.q.guess(e);if(t.result===`repeat`)return jf(vp.ui,`Already guessed`);if(t.result===`invalid`)return;this.busy=!0,Sp.saveProgress(this.n,this.q.history);let n=[...this.tiles.el.children].filter(e=>e.classList.contains(`cg-picked`));for(let e of n)e.classList.add(`hop`),await wp(.08);await wp(.35),t.result===`correct`?(bp.play(`reveal`),this.q.solved.length===1&&t.group.level===3&&yp.unlock(`purple`),this.tiles.clear(),hf(this.board,()=>this.render(),{seconds:.35})):(bp.play(`error`),n.forEach(e=>e.classList.remove(`hop`)),this.tiles.el.classList.remove(`shake`),this.tiles.el.offsetWidth,this.tiles.el.classList.add(`shake`),t.result===`oneAway`&&jf(vp.ui,`One away...`),this.render()),await wp(.4),this.busy=!1,this.render(),this.q.over&&await this.end()}async end(){let e=this.q;if(this.busy=!0,e.lost){bp.play(`lose`);for(let t of e.groups.filter(t=>!e.solved.includes(t)).sort((e,t)=>e.level-t.level))e.solved.push(t),e.items=e.items.filter(e=>!t.items.includes(e)),hf(this.board,()=>this.render(),{seconds:.35}),await wp(.7)}else bp.play(`win`),jf(vp.ui,[`Perfect!`,`Great!`,`Solid!`,`Phew!`][e.mistakes]??`Solved!`),Sp.get(this.n)||(yp.unlock(`solve`),yp.progress(`regular`),e.mistakes===0&&yp.unlock(`perfect`),e.mistakes===pp.mistakes-1&&yp.unlock(`close`));if(await wp(1.2),!this.active)return;let t=!Sp.get(this.n)&&this.n===xp.today(),n=Cp.finish(this.n,{won:e.won,result:{mistakes:e.mistakes},share:e.share(this.n),title:e.won?`Solved!`:`Next time`,stats:[[`Mistakes`,`${e.mistakes} of ${pp.mistakes}`]]});t&&e.won&&Sp.streak(xp.today())>=7&&yp.unlock(`week`),await n}renderButtons(){let e=!this.busy&&!this.q.over;this.submitBtn.disabled=!e||this.tiles.count!==4,this.clearBtn.disabled=!e||this.tiles.count===0}render(){let e=this.q;this.solved.replaceChildren(...e.solved.map(e=>{let t=sf(`div`,{class:`qt-bar`},sf(`b`,{text:e.name}),sf(`span`,{text:e.items.join(`, `)}));return t.style.background=mp[e.level].color,t.style.color=mp[e.level].ink,t.dataset.id=`group-${e.level}`,t})),this.tiles.items=[...e.items],this.tiles.locked=this.busy||e.over,this.tiles.render();for(let e of this.tiles.el.children)e.dataset.id=e.textContent??``;this.dots.replaceChildren(sf(`span`,{text:`Mistakes left`}),...Array.from({length:pp.mistakes},(t,n)=>sf(`i`,{class:n<pp.mistakes-e.mistakes?`on`:``}))),this.renderButtons()}};lp(vp.container,ip,_p).then(()=>Cp.start(new Tp));</script>
     <style rel="stylesheet" crossorigin>:root{--gs-accent:#ff48b0;--daily-won:#00a95c;--select-lift:0px;--select-color:transparent}.qt{box-sizing:border-box;pointer-events:auto;color:#3255a4;grid-template-rows:auto 1fr auto auto;justify-items:center;gap:14px;padding:10px 16px 22px;font-family:Space Mono,ui-monospace,monospace;display:grid;position:absolute;inset:0}.qt-head{border-bottom:3px solid #3255a4;justify-content:center;align-items:baseline;gap:10px;width:100%;padding-bottom:6px;display:flex;box-shadow:0 4px 0 -1px #ff48b099}.qt-head b{text-transform:uppercase;letter-spacing:-.01em;text-shadow:3px 2px #ff48b0a6;font:800 30px Bricolage Grotesque,Arial Black,sans-serif}.qt-head span{color:#ff48b0;font-weight:700}.qt-board{align-content:center;gap:8px;width:min(620px,100%);display:grid}.qt-solved{gap:8px;display:grid}.qt-bar{text-align:center;text-transform:uppercase;mix-blend-mode:multiply;place-content:center;gap:4px;height:clamp(64px,11vh,80px);display:grid;box-shadow:5px 4px #ff48b08c}.qt-bar b{font:800 19px Bricolage Grotesque,Arial Black,sans-serif}.qt-bar span{font-size:14px}.qt-grid.cg-select-row{grid-template-columns:repeat(4,1fr);gap:8px;display:grid}.qt-tile{color:#3255a4;text-transform:uppercase;cursor:pointer;text-shadow:1.5px 1px #ff48b08c;background:#3255a41a;border:0;border-radius:0;height:clamp(64px,11vh,80px);padding:0 4px;font:800 clamp(13px,2.4vw,20px) Bricolage Grotesque,Arial Black,sans-serif}.qt-tile.long{font-size:clamp(11px,1.9vw,16px)}.qt-tile.cg-picked{color:#f5f1e8;text-shadow:1.5px 1px #3255a499;background:#ff48b0;transform:none;box-shadow:4px 3px #3255a480}.qt-tile.hop{animation:.3s ease-out qt-hop}@keyframes qt-hop{40%{transform:translateY(-8px)}}.qt-grid.shake{animation:.4s cg-shake}.qt-dots{color:#3255a4;align-items:center;gap:10px;font-size:14px;display:flex}.qt-dots i{box-sizing:border-box;border:2px solid #3255a4;border-radius:50%;width:14px;height:14px}.qt-dots i.on{background:#ff48b0;border-color:#ff48b0}.qt-buttons{gap:12px;display:flex}.qt-btn{text-transform:uppercase;color:#3255a4;cursor:pointer;background:#ffe800e6;border:0;padding:13px 22px;font:700 15px Space Mono,ui-monospace,monospace;box-shadow:3px 3px #ff48b099}.qt-btn.dark{color:#f5f1e8;background:#3255a4}.qt-btn:disabled{opacity:.35;cursor:default}.qt-grid.cg-select-row>:hover,.qt-grid.cg-select-row>.cg-picked{transform:none}
 /*$vite$:1*/</style>
